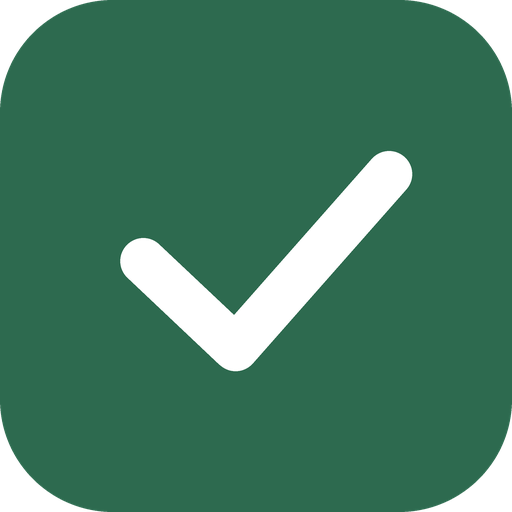
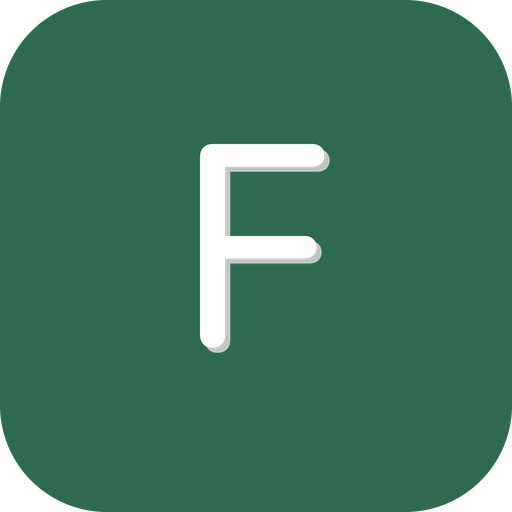
Update: íconos PWA con letra F — SF Rounded bold, supersampling 4×
- Fondo #2d6a4f redondeado (r=40px en 192), F blanca centrada
- icon-192.png, icon-512.png, apple-touch-icon.png (180px) regenerados
- manifest.json: ?v=2 en todos los íconos
- index.html: apple-touch-icon ?v=2 para forzar recarga en iOS

diff --git a/index.html b/index.html
@@ -9,7 +9,7 @@
 <meta name="apple-mobile-web-app-capable" content="yes">
 <meta name="apple-mobile-web-app-status-bar-style" content="default">
 <meta name="apple-mobile-web-app-title" content="FinanzasApp">
-<link rel="apple-touch-icon" href="/apple-touch-icon.png">
+<link rel="apple-touch-icon" href="/apple-touch-icon.png?v=2">
 <title>FinanzasApp</title>
 <script src="https://cdnjs.cloudflare.com/ajax/libs/Chart.js/4.4.0/chart.umd.min.js"></script>
 <script src="https://cdn.jsdelivr.net/npm/@supabase/supabase-js@2"></script>
